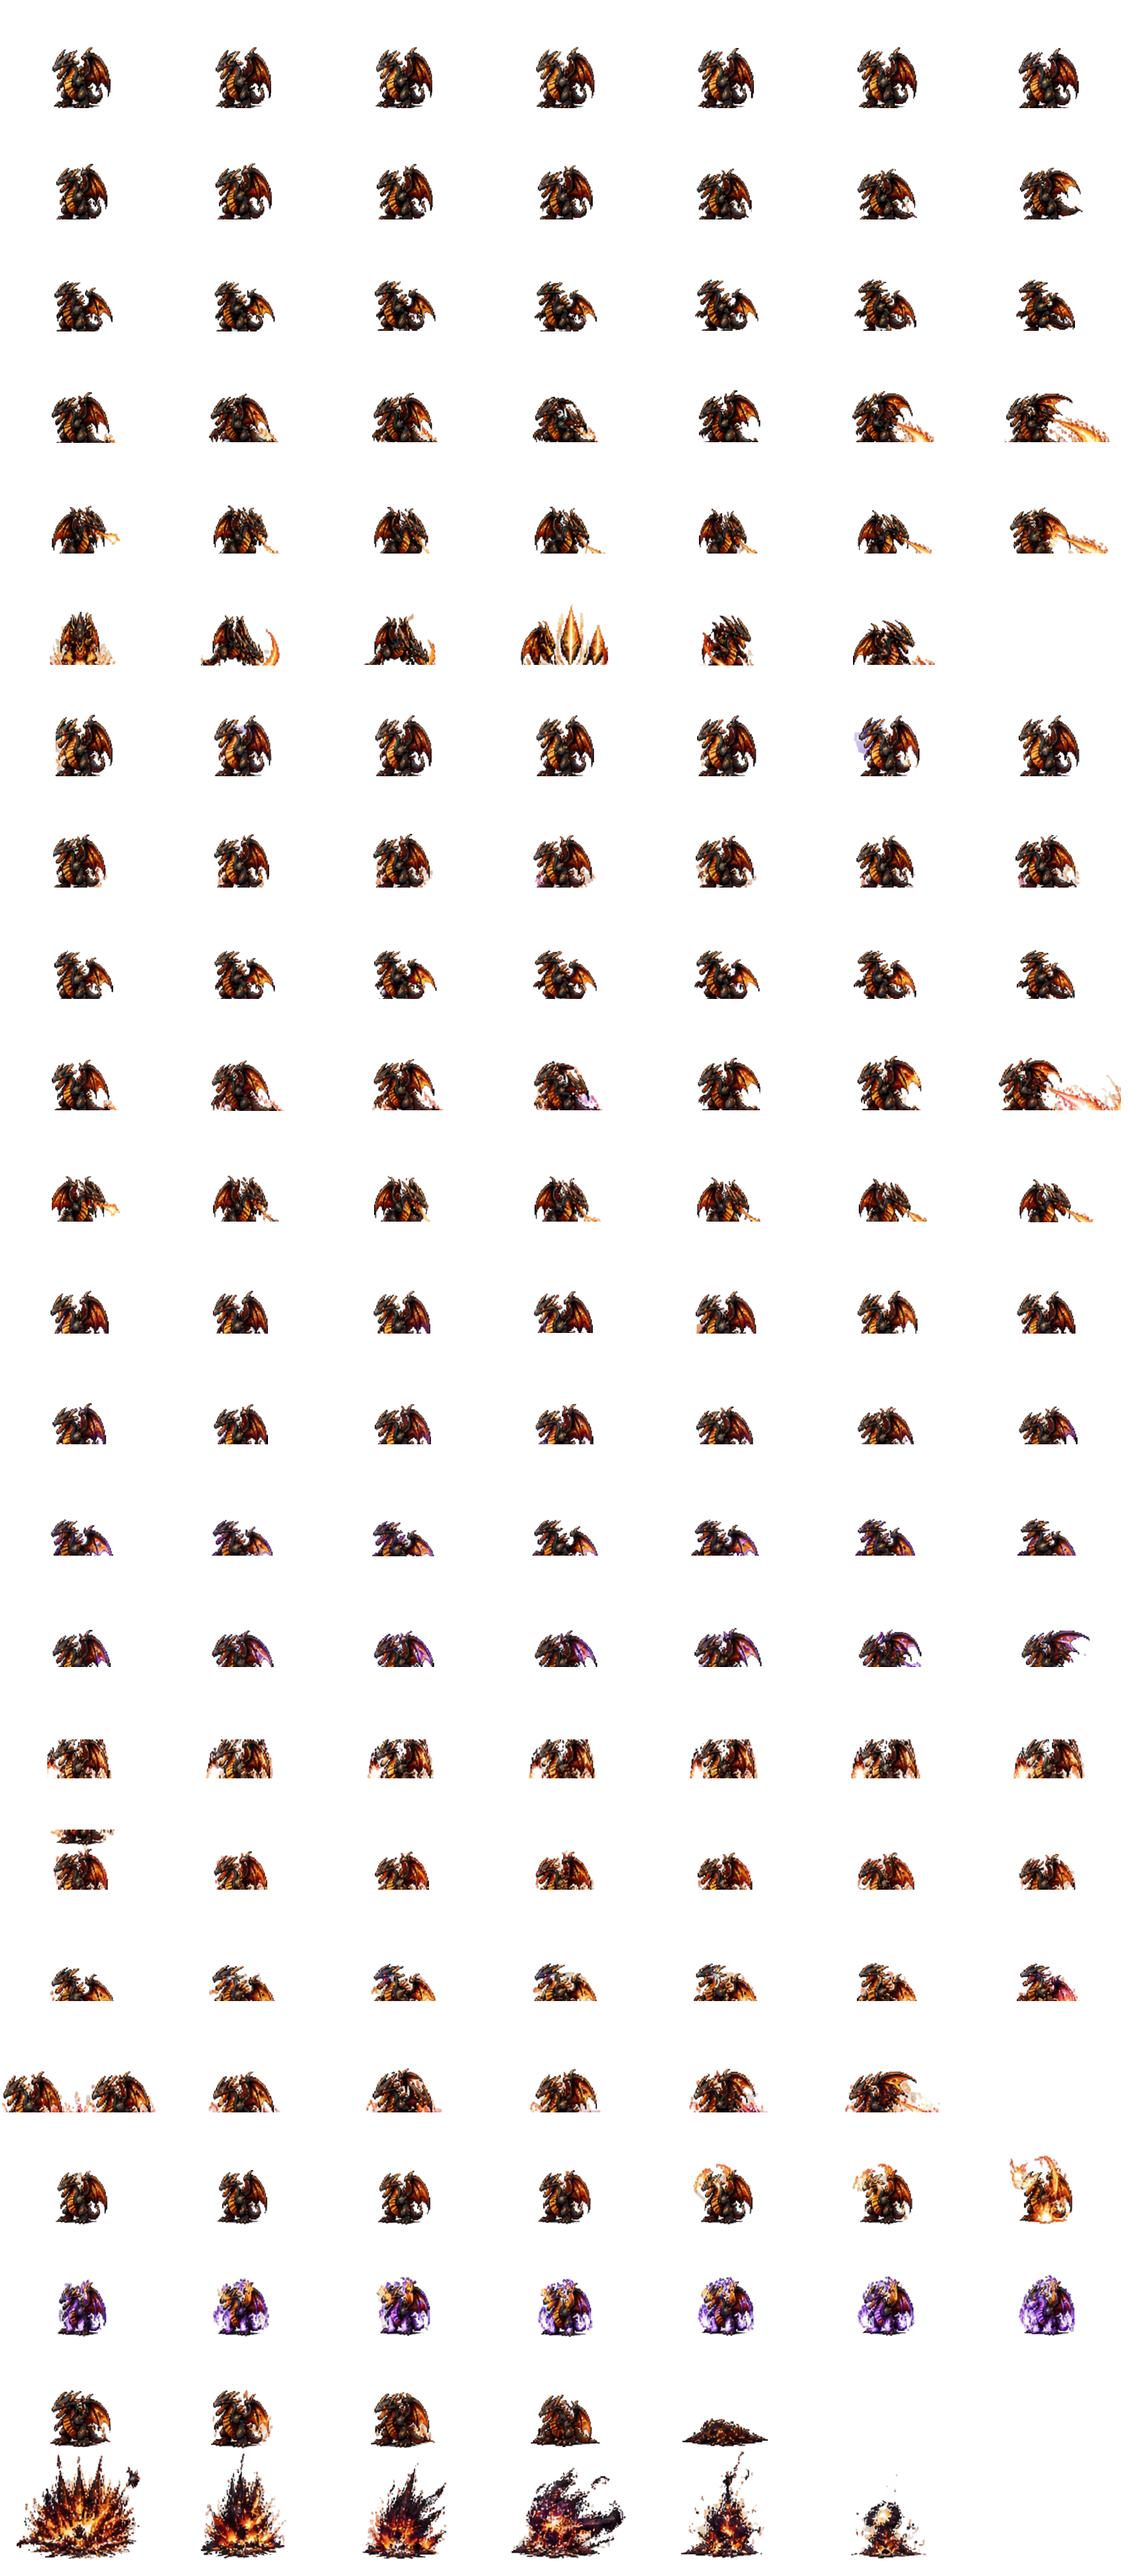
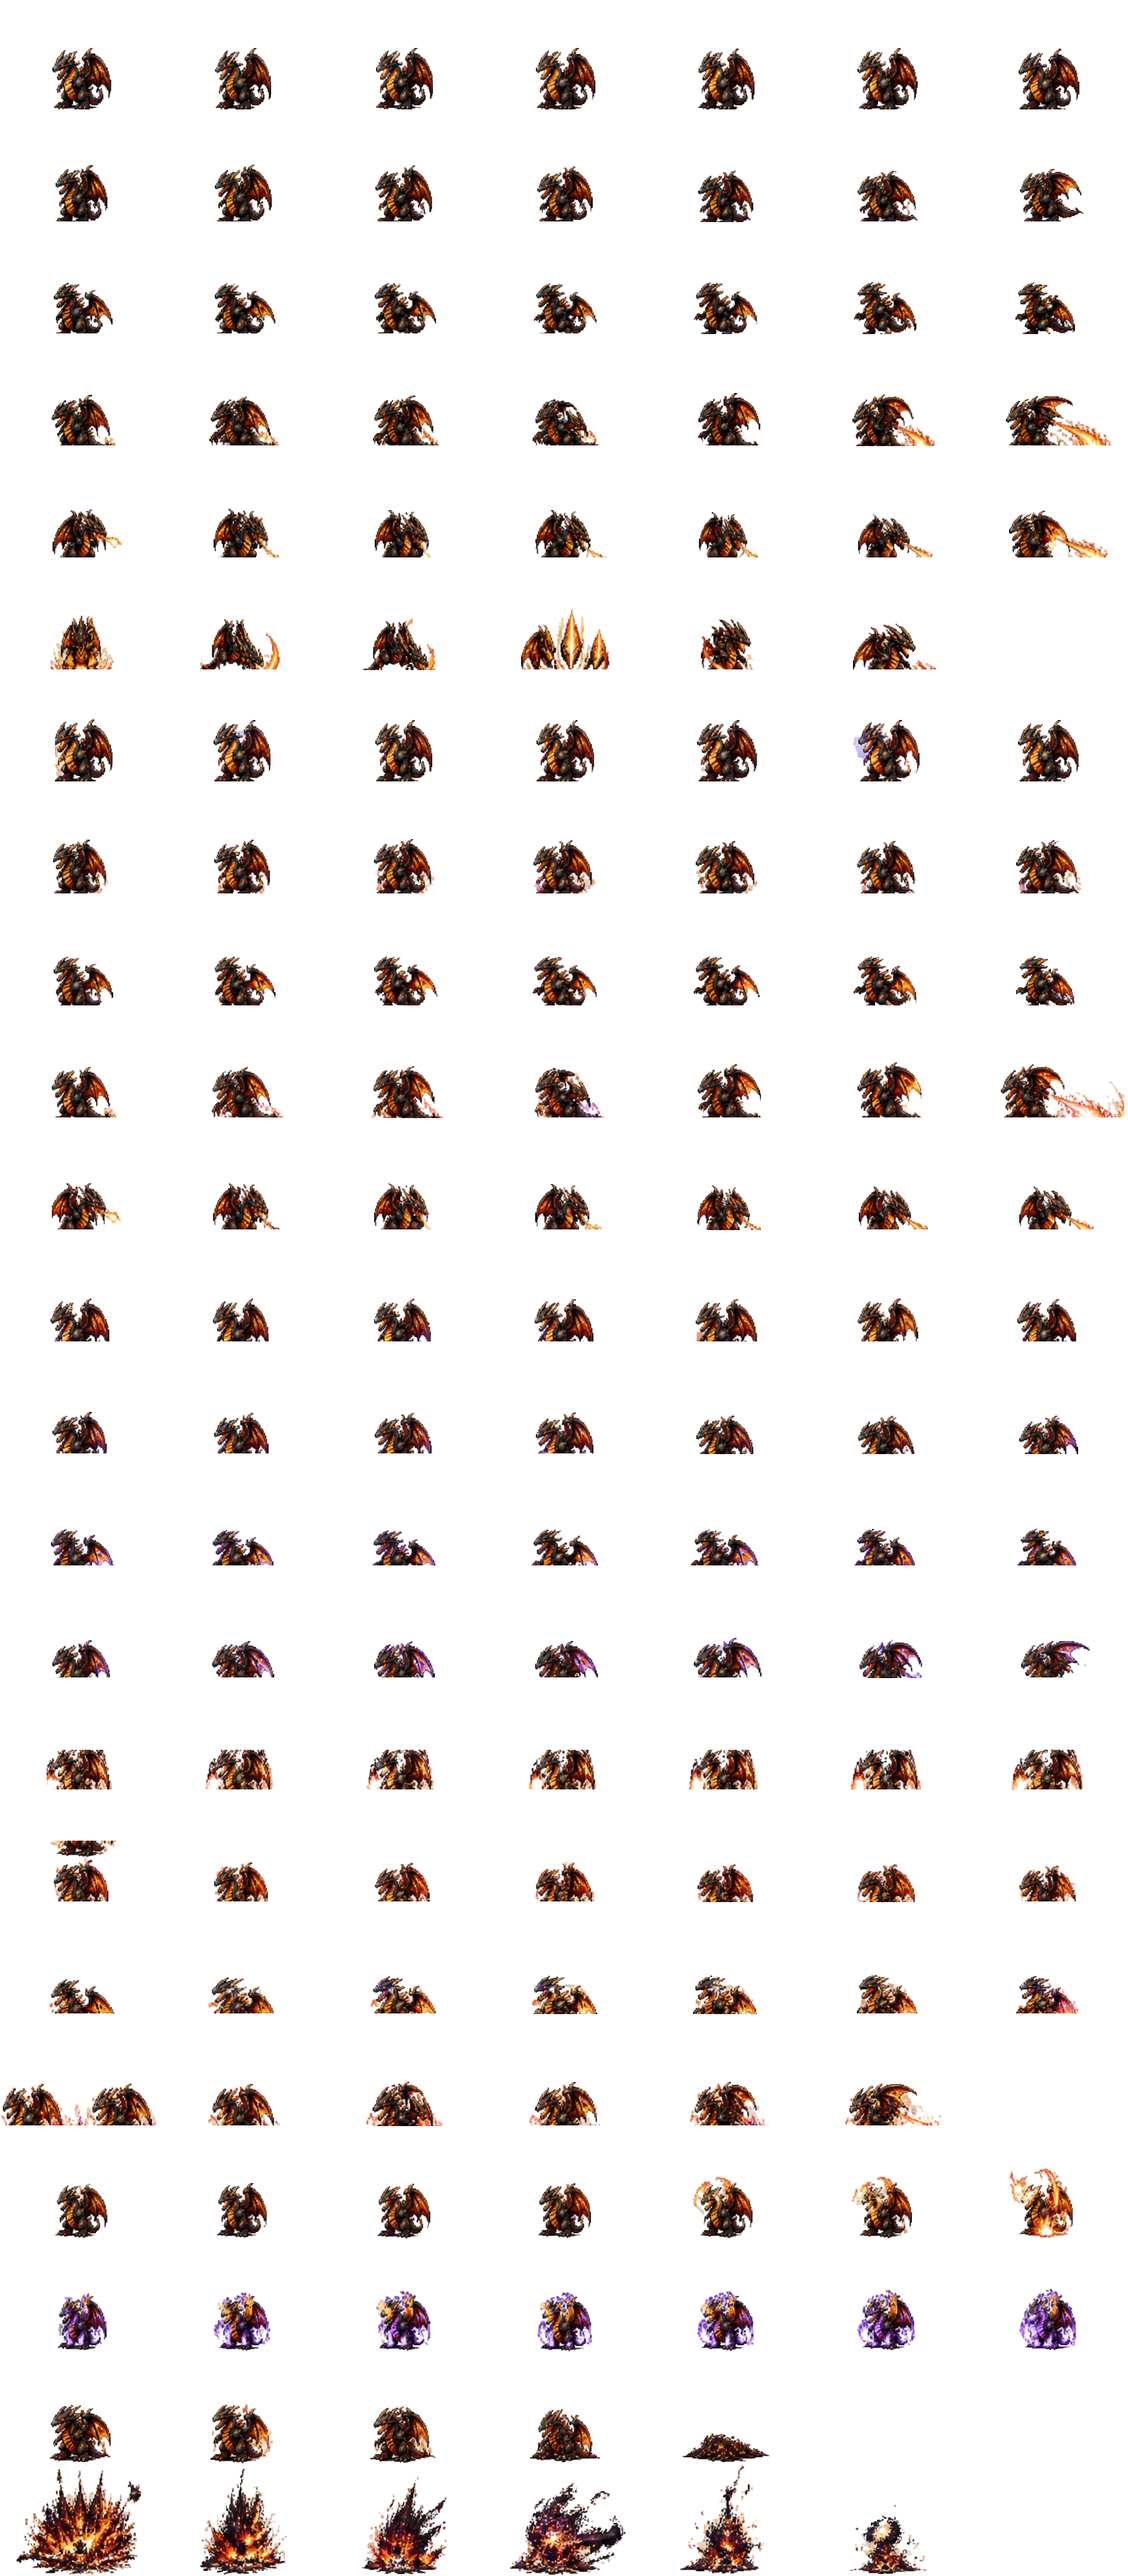
Varkharon sprite polish (owner: white edge round the boss): build-monsters sheet option defringe { passes, minLum, neutral, pure, minSize } peels the light checker halo off the outline and drops pure-grey checker pockets inside the shape (warm flame cores stay)

diff --git a/tools/build-monsters.js b/tools/build-monsters.js
@@ -168,7 +168,7 @@ const SHEETS = {
   // A2 SECRET BOSS: VARKHARON, the Sealed Cinder King — the owner's 4-phase dragon sheet (A/A2/SC/dragon/SP): four
   // panels (phase 1 | 2 on top, 3 | 4 below), the three transformations and the common rows. Every row names its band.
   varkharon: {
-    file: 'A/A2/SC/dragon/SP/1.png', height: 96, bgTone: [185, 250], // black headers sit on the sheet edge: give the checker tones
+    file: 'A/A2/SC/dragon/SP/1.png', height: 96, bgTone: [185, 250], pocket: 20, defringe: { passes: 3, minLum: 130, neutral: 18, pure: 6, minSize: 3 }, // black headers sit on the sheet edge: give the checker tones
     clear: [[0, 0, 2048, 34], [0, 684, 2048, 716], [1100, 716, 1960, 724], [0, 0, 106, 1500], [990, 0, 1106, 1500]], // header bars the horns touch + row labels
     // rows whose fire / aura joins the poses into one shape (p3 / p4 hurt + stagger, enrage, p2 stagger, 3->4 transition, common hurt) are not cut: the common rows cover them
     rows: [
@@ -497,6 +497,35 @@ function buildMonster(id, def, probe) {
         for (const r of [x > 0 ? q - 1 : -1, x < W - 1 ? q + 1 : -1, q - W, q + W]) if (r >= 0 && r < W * H && !seen[r] && bgLike(r)) { seen[r] = 1; comp.push(r); }
       }
       if (comp.length >= (o.region || 3000)) for (const q of comp) d[q * 4 + 3] = 0;
+    }
+  }
+  if (def.defringe) {
+    // sheet `defringe: { passes, minLum, neutral }`: the checker's light grey survives as a halo along the outline (and
+    // the soft half-transparent edge the flood leaves). Peel it: every pass drops pixels that touch transparency and are
+    // grey (max-min <= neutral) and light (lum >= minLum). Real colour (fire, horns) is never grey, so it stays.
+    const d = img.data, W = img.width, H = img.height, o = def.defringe;
+    const grey = (i) => Math.max(d[i], d[i + 1], d[i + 2]) - Math.min(d[i], d[i + 1], d[i + 2]) <= (o.neutral ?? 16) && (d[i] + d[i + 1] + d[i + 2]) / 3 >= (o.minLum ?? 140);
+    for (let pass = 0; pass < (o.passes || 3); pass++) {
+      const drop = [];
+      for (let y = 1; y < H - 1; y++) for (let x = 1; x < W - 1; x++) {
+        const p = y * W + x, i = p * 4;
+        if (!d[i + 3]) continue;
+        const edge = !d[(p - 1) * 4 + 3] || !d[(p + 1) * 4 + 3] || !d[(p - W) * 4 + 3] || !d[(p + W) * 4 + 3];
+        if (edge && (grey(i) || d[i + 3] < 200)) drop.push(i);
+      }
+      for (const i of drop) d[i + 3] = 0;
+    }
+    // `pure`: leftover checker pockets inside the shape (between legs / wings) are PURE grey and light; a flame's white
+    // core is warm-tinted, so it is never taken. Any such patch of `minSize`+ px goes.
+    if (o.pure != null) {
+      const pureGrey = (p) => { const i = p * 4; return d[i + 3] && Math.max(d[i], d[i + 1], d[i + 2]) - Math.min(d[i], d[i + 1], d[i + 2]) <= o.pure && (d[i] + d[i + 1] + d[i + 2]) / 3 >= (o.pureLum ?? 180); };
+      const seen = new Uint8Array(W * H);
+      for (let p = 0; p < W * H; p++) {
+        if (seen[p] || !pureGrey(p)) continue;
+        const comp = [p]; seen[p] = 1;
+        for (let k = 0; k < comp.length; k++) { const q = comp[k], x = q % W; for (const r of [x > 0 ? q - 1 : -1, x < W - 1 ? q + 1 : -1, q - W, q + W]) if (r >= 0 && r < W * H && !seen[r] && pureGrey(r)) { seen[r] = 1; comp.push(r); } }
+        if (comp.length >= (o.minSize || 3)) for (const q of comp) d[q * 4 + 3] = 0;
+      }
     }
   }
   if (def.clearLight) { // blurry sheets: light grey-white gaps between limbs (never real colour) become transparent
